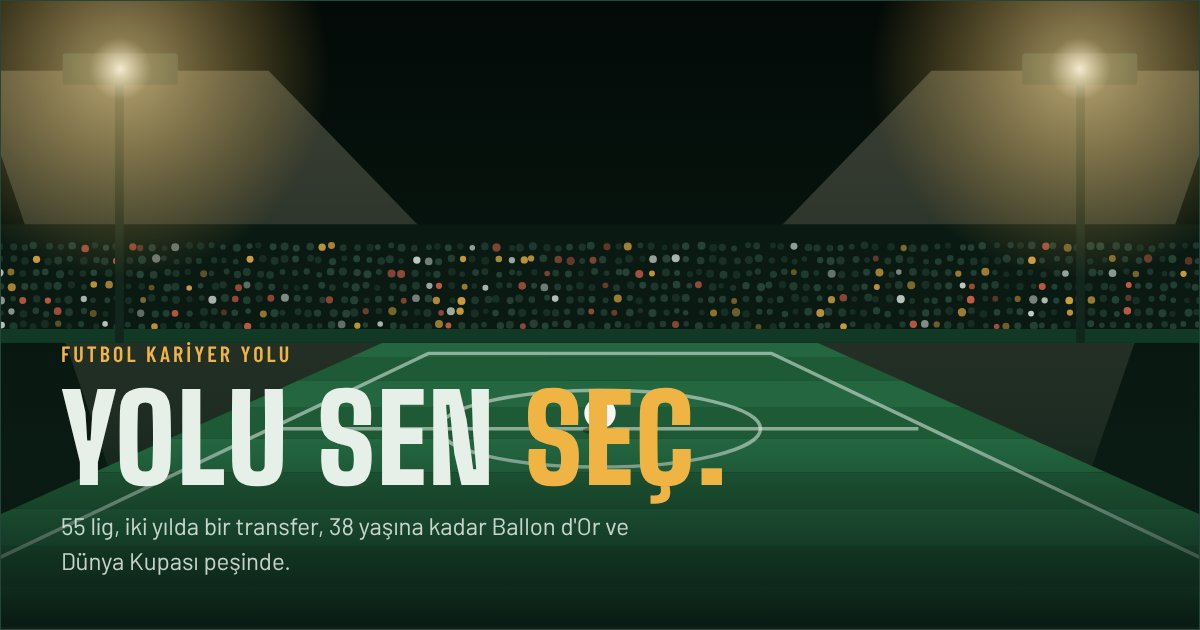
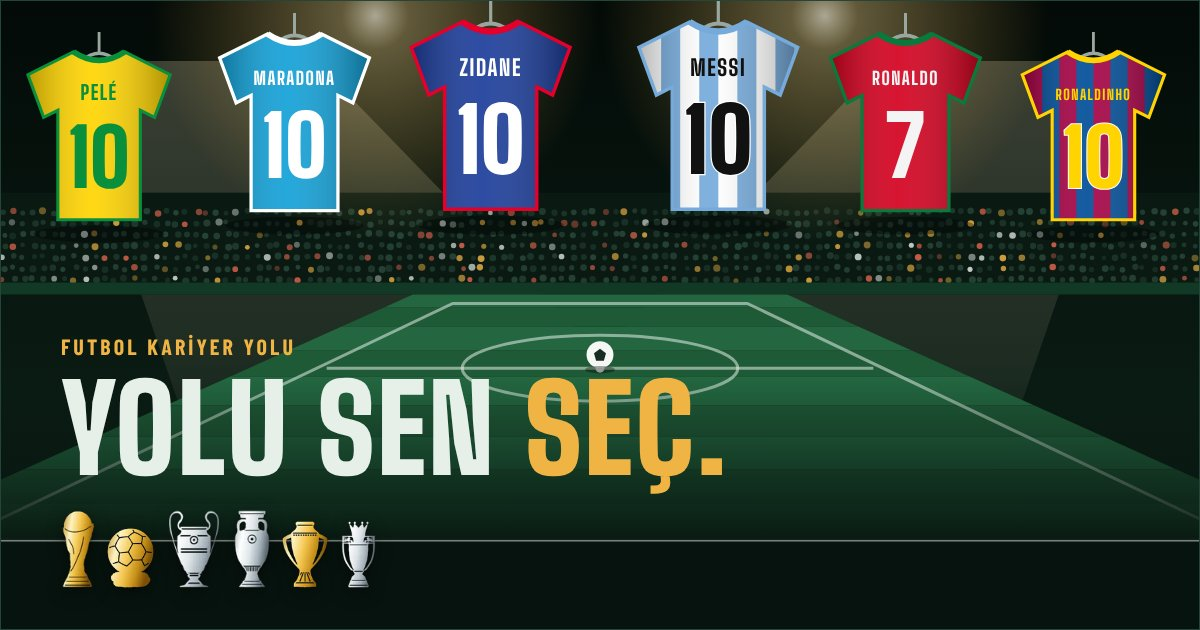
Kapakta efsaneler duvarı, kapak yazıları sadeleşti
Pelé, Maradona, Zidane, Messi, Ronaldo ve Ronaldinho ikonik formalarıyla
(isim ve numara) stadyum çiziminde; iki kapak yazısı kaldırıldı;
paylaşım görseli yenilendi.

Claude-Session: https://claude.ai/code/session_01CGWao6hr4YtgiQKQVhprTq

diff --git a/futbol/index.html b/futbol/index.html
@@ -684,6 +684,29 @@ function chipHtml(x,nat){const k=trophyKind(x);return `<span class="chip">${trop
 function journeyHtml(Q){const st=[];Q.seasons.forEach(s=>{const c=st[st.length-1];if(c&&c.club===s.club){c.to=s.endY;c.n++}else st.push({club:s.club,from:s.endY-1,to:s.endY,n:1})});
   return `<div class="journey">${st.map((c,i)=>`${i?'<span class="jarrow" aria-hidden="true">→</span>':''}<span class="jstop">${crest(c.club,32)}<small>${String(c.from).slice(2)}–${String(c.to).slice(2)}</small></span>`).join('')}</div>`}
 /* ================= ekranlar ================= */
+const LEGENDS=[
+  {n:'PELÉ',no:10,base:'#ffd400',stripe:null,txt:'#0a8f3c',trim:'#0a8f3c'},
+  {n:'MARADONA',no:10,base:'#12a0d7',stripe:null,txt:'#ffffff',trim:'#ffffff'},
+  {n:'ZIDANE',no:10,base:'#1b3c9a',stripe:null,txt:'#ffffff',trim:'#e4002b'},
+  {n:'MESSI',no:10,base:'#ffffff',stripe:'#75aadb',txt:'#111111',trim:'#75aadb'},
+  {n:'RONALDO',no:7,base:'#d4001f',stripe:null,txt:'#f4f4f4',trim:'#0a7a3c'},
+  {n:'RONALDINHO',no:10,base:'#a50044',stripe:'#004d98',txt:'#ffd400',trim:'#ffd400'}];
+function legendsSvg(){
+  const shirt='M32 0Q50 12 68 0L100 16 89 46 79 41V118H21V41L11 46 0 16Z';
+  const xs=[18,146,274,426,554,682],ys=[34,22,14,14,22,34],sc=[.95,1,1.06,1.06,1,.95];
+  return `<g class="legends">${LEGENDS.map((L,i)=>{const id='lg'+i;
+    const stripes=L.stripe?[14,38,62,86].map(x=>`<rect x="${x}" y="0" width="12" height="120" fill="${L.stripe}"/>`).join(''):'';
+    const fs=L.n.length>8?10:L.n.length>6?12:14;
+    return `<g transform="translate(${xs[i]} ${ys[i]}) scale(${sc[i]})">
+      <ellipse cx="50" cy="128" rx="46" ry="6" fill="#000" opacity=".35"/>
+      <line x1="50" y1="-14" x2="50" y2="2" stroke="#9aa7a0" stroke-width="2"/><path d="M38 6Q50-4 62 6" fill="none" stroke="#9aa7a0" stroke-width="2.4"/>
+      <clipPath id="${id}"><path d="${shirt}"/></clipPath>
+      <g clip-path="url(#${id})"><rect width="100" height="120" fill="${L.base}"/>${stripes}<rect width="100" height="120" fill="url(#cvShirtShade)"/></g>
+      <path d="${shirt}" fill="none" stroke="${L.trim}" stroke-width="2.2"/>
+      <path d="M32 0Q50 12 68 0" fill="none" stroke="${L.trim}" stroke-width="4"/>
+      <text x="50" y="34" text-anchor="middle" font-family="Big Shoulders Display,Impact,sans-serif" font-weight="800" font-size="${fs}" letter-spacing="1" fill="${L.txt}">${L.n}</text>
+      <text x="50" y="96" text-anchor="middle" font-family="Big Shoulders Display,Impact,sans-serif" font-weight="900" font-size="56" fill="${L.txt}" stroke="${L.stripe?'#ffffff':'none'}" stroke-width="${L.stripe?1.5:0}" paint-order="stroke">${L.no}</text>
+    </g>`}).join('')}</g>`}
 function coverSvg(){
   const W=800,H=360,hz=196,tw=250,bw=980;
   const xAt=(y,side)=>{const t=(y-hz)/(H-hz);const w=tw+(bw-tw)*t;return W/2+side*w/2};
@@ -699,6 +722,7 @@ function coverSvg(){
     <linearGradient id="cvSky" x1="0" y1="0" x2="0" y2="1"><stop offset="0" stop-color="#030a07"/><stop offset="1" stop-color="#0d2219"/></linearGradient>
     <radialGradient id="cvGlow"><stop offset="0" stop-color="#fff6dc" stop-opacity=".95"/><stop offset=".15" stop-color="#f6d58a" stop-opacity=".55"/><stop offset="1" stop-color="#f0b445" stop-opacity="0"/></radialGradient>
     <linearGradient id="cvBeam" x1="0" y1="0" x2="0" y2="1"><stop offset="0" stop-color="#fff2c8" stop-opacity=".22"/><stop offset="1" stop-color="#fff2c8" stop-opacity="0"/></linearGradient>
+    <linearGradient id="cvShirtShade" x1="0" y1="0" x2="1" y2="0"><stop offset="0" stop-color="#000" stop-opacity=".28"/><stop offset=".45" stop-color="#fff" stop-opacity=".08"/><stop offset="1" stop-color="#000" stop-opacity=".32"/></linearGradient>
     <linearGradient id="cvShade" x1="0" y1="0" x2="0" y2="1"><stop offset=".7" stop-color="#07130e" stop-opacity="0"/><stop offset="1" stop-color="#07130e" stop-opacity=".92"/></linearGradient>
   </defs>
   <rect width="${W}" height="${H}" fill="url(#cvSky)"/>
@@ -716,9 +740,8 @@ function coverSvg(){
   <circle cx="400" cy="${mid}" r="3" fill="#e6efe8"/>
   <g transform="translate(400 ${mid-9})"><circle r="9" fill="#f4f7f4"/><path d="M0-4 L4-1 L2.6 4 L-2.6 4 L-4-1Z" fill="#1b2a22"/></g>
   <ellipse cx="400" cy="${mid+1}" rx="10" ry="2.5" fill="#000" opacity=".35"/>
-  <rect x="122" y="40" width="5" height="${hz-40}" fill="#13261d"/><rect x="673" y="40" width="5" height="${hz-40}" fill="#13261d"/>
-  <rect x="92" y="30" width="66" height="18" rx="2" fill="#1d2f26"/><rect x="642" y="30" width="66" height="18" rx="2" fill="#1d2f26"/>
-  <circle cx="125" cy="39" r="120" fill="url(#cvGlow)"/><circle cx="675" cy="39" r="120" fill="url(#cvGlow)"/>
+      <circle cx="250" cy="10" r="150" fill="url(#cvGlow)" opacity=".7"/><circle cx="550" cy="10" r="150" fill="url(#cvGlow)" opacity=".7"/>
+  ${legendsSvg()}
   <rect width="${W}" height="${H}" fill="url(#cvShade)"/>
   </svg>`;
 }
@@ -800,9 +823,7 @@ function renderStart(){
   $('#app').innerHTML=`<section class="cover col">
     ${coverSvg()}
     <div class="cover-text">
-      <div class="eyebrow">Futbol kariyer simülasyonu · Sezon 2026/27</div>
       <h1>Yolu sen <em>seç.</em></h1>
-      <p>17 yaşında ilk imzanı at, iki yılda bir transfer kararı ver, 38 yaşında kupa dolabınla emekli ol.</p>
       ${shelf?`<div class="shelf" aria-label="Kazanabileceğin kupalardan bazıları">${shelf}</div>`:''}
     </div>
   </section>
@@ -1038,7 +1059,7 @@ if(!window.LOGOS_INLINE)fetch('logos.json').then(r=>r.ok?r.json():{}).then(d=>{L
 <script>
 /* Uygulama güncelleme: her açılışta ve uygulamaya dönüldüğünde yeni sürümü kontrol et */
 (function(){
-  var BUILD='20261126122445',busy=false;
+  var BUILD='20261126122742',busy=false;
   function reloadNow(){if(busy)return;busy=true;try{sessionStorage.setItem('fky.autocont','1')}catch(e){}location.reload()}
   function check(){
     fetch('version.json?t='+Date.now(),{cache:'no-store'}).then(function(r){return r.ok?r.json():null}).then(function(v){

diff --git a/futbol-kariyer.html b/futbol-kariyer.html
@@ -683,6 +683,29 @@ function chipHtml(x,nat){const k=trophyKind(x);return `<span class="chip">${trop
 function journeyHtml(Q){const st=[];Q.seasons.forEach(s=>{const c=st[st.length-1];if(c&&c.club===s.club){c.to=s.endY;c.n++}else st.push({club:s.club,from:s.endY-1,to:s.endY,n:1})});
   return `<div class="journey">${st.map((c,i)=>`${i?'<span class="jarrow" aria-hidden="true">→</span>':''}<span class="jstop">${crest(c.club,32)}<small>${String(c.from).slice(2)}–${String(c.to).slice(2)}</small></span>`).join('')}</div>`}
 /* ================= ekranlar ================= */
+const LEGENDS=[
+  {n:'PELÉ',no:10,base:'#ffd400',stripe:null,txt:'#0a8f3c',trim:'#0a8f3c'},
+  {n:'MARADONA',no:10,base:'#12a0d7',stripe:null,txt:'#ffffff',trim:'#ffffff'},
+  {n:'ZIDANE',no:10,base:'#1b3c9a',stripe:null,txt:'#ffffff',trim:'#e4002b'},
+  {n:'MESSI',no:10,base:'#ffffff',stripe:'#75aadb',txt:'#111111',trim:'#75aadb'},
+  {n:'RONALDO',no:7,base:'#d4001f',stripe:null,txt:'#f4f4f4',trim:'#0a7a3c'},
+  {n:'RONALDINHO',no:10,base:'#a50044',stripe:'#004d98',txt:'#ffd400',trim:'#ffd400'}];
+function legendsSvg(){
+  const shirt='M32 0Q50 12 68 0L100 16 89 46 79 41V118H21V41L11 46 0 16Z';
+  const xs=[18,146,274,426,554,682],ys=[34,22,14,14,22,34],sc=[.95,1,1.06,1.06,1,.95];
+  return `<g class="legends">${LEGENDS.map((L,i)=>{const id='lg'+i;
+    const stripes=L.stripe?[14,38,62,86].map(x=>`<rect x="${x}" y="0" width="12" height="120" fill="${L.stripe}"/>`).join(''):'';
+    const fs=L.n.length>8?10:L.n.length>6?12:14;
+    return `<g transform="translate(${xs[i]} ${ys[i]}) scale(${sc[i]})">
+      <ellipse cx="50" cy="128" rx="46" ry="6" fill="#000" opacity=".35"/>
+      <line x1="50" y1="-14" x2="50" y2="2" stroke="#9aa7a0" stroke-width="2"/><path d="M38 6Q50-4 62 6" fill="none" stroke="#9aa7a0" stroke-width="2.4"/>
+      <clipPath id="${id}"><path d="${shirt}"/></clipPath>
+      <g clip-path="url(#${id})"><rect width="100" height="120" fill="${L.base}"/>${stripes}<rect width="100" height="120" fill="url(#cvShirtShade)"/></g>
+      <path d="${shirt}" fill="none" stroke="${L.trim}" stroke-width="2.2"/>
+      <path d="M32 0Q50 12 68 0" fill="none" stroke="${L.trim}" stroke-width="4"/>
+      <text x="50" y="34" text-anchor="middle" font-family="Big Shoulders Display,Impact,sans-serif" font-weight="800" font-size="${fs}" letter-spacing="1" fill="${L.txt}">${L.n}</text>
+      <text x="50" y="96" text-anchor="middle" font-family="Big Shoulders Display,Impact,sans-serif" font-weight="900" font-size="56" fill="${L.txt}" stroke="${L.stripe?'#ffffff':'none'}" stroke-width="${L.stripe?1.5:0}" paint-order="stroke">${L.no}</text>
+    </g>`}).join('')}</g>`}
 function coverSvg(){
   const W=800,H=360,hz=196,tw=250,bw=980;
   const xAt=(y,side)=>{const t=(y-hz)/(H-hz);const w=tw+(bw-tw)*t;return W/2+side*w/2};
@@ -698,6 +721,7 @@ function coverSvg(){
     <linearGradient id="cvSky" x1="0" y1="0" x2="0" y2="1"><stop offset="0" stop-color="#030a07"/><stop offset="1" stop-color="#0d2219"/></linearGradient>
     <radialGradient id="cvGlow"><stop offset="0" stop-color="#fff6dc" stop-opacity=".95"/><stop offset=".15" stop-color="#f6d58a" stop-opacity=".55"/><stop offset="1" stop-color="#f0b445" stop-opacity="0"/></radialGradient>
     <linearGradient id="cvBeam" x1="0" y1="0" x2="0" y2="1"><stop offset="0" stop-color="#fff2c8" stop-opacity=".22"/><stop offset="1" stop-color="#fff2c8" stop-opacity="0"/></linearGradient>
+    <linearGradient id="cvShirtShade" x1="0" y1="0" x2="1" y2="0"><stop offset="0" stop-color="#000" stop-opacity=".28"/><stop offset=".45" stop-color="#fff" stop-opacity=".08"/><stop offset="1" stop-color="#000" stop-opacity=".32"/></linearGradient>
     <linearGradient id="cvShade" x1="0" y1="0" x2="0" y2="1"><stop offset=".7" stop-color="#07130e" stop-opacity="0"/><stop offset="1" stop-color="#07130e" stop-opacity=".92"/></linearGradient>
   </defs>
   <rect width="${W}" height="${H}" fill="url(#cvSky)"/>
@@ -715,9 +739,8 @@ function coverSvg(){
   <circle cx="400" cy="${mid}" r="3" fill="#e6efe8"/>
   <g transform="translate(400 ${mid-9})"><circle r="9" fill="#f4f7f4"/><path d="M0-4 L4-1 L2.6 4 L-2.6 4 L-4-1Z" fill="#1b2a22"/></g>
   <ellipse cx="400" cy="${mid+1}" rx="10" ry="2.5" fill="#000" opacity=".35"/>
-  <rect x="122" y="40" width="5" height="${hz-40}" fill="#13261d"/><rect x="673" y="40" width="5" height="${hz-40}" fill="#13261d"/>
-  <rect x="92" y="30" width="66" height="18" rx="2" fill="#1d2f26"/><rect x="642" y="30" width="66" height="18" rx="2" fill="#1d2f26"/>
-  <circle cx="125" cy="39" r="120" fill="url(#cvGlow)"/><circle cx="675" cy="39" r="120" fill="url(#cvGlow)"/>
+      <circle cx="250" cy="10" r="150" fill="url(#cvGlow)" opacity=".7"/><circle cx="550" cy="10" r="150" fill="url(#cvGlow)" opacity=".7"/>
+  ${legendsSvg()}
   <rect width="${W}" height="${H}" fill="url(#cvShade)"/>
   </svg>`;
 }
@@ -799,9 +822,7 @@ function renderStart(){
   $('#app').innerHTML=`<section class="cover col">
     ${coverSvg()}
     <div class="cover-text">
-      <div class="eyebrow">Futbol kariyer simülasyonu · Sezon 2026/27</div>
       <h1>Yolu sen <em>seç.</em></h1>
-      <p>17 yaşında ilk imzanı at, iki yılda bir transfer kararı ver, 38 yaşında kupa dolabınla emekli ol.</p>
       ${shelf?`<div class="shelf" aria-label="Kazanabileceğin kupalardan bazıları">${shelf}</div>`:''}
     </div>
   </section>

diff --git a/futbol/sw.js b/futbol/sw.js
@@ -1,5 +1,5 @@
-// Futbol Kariyer Yolu: çevrimdışı çalışma. Sürüm 20261126122445
-const CACHE='kariyer-yolu-20261126122445';
+// Futbol Kariyer Yolu: çevrimdışı çalışma. Sürüm 20261126122742
+const CACHE='kariyer-yolu-20261126122742';
 const FILES=['./','index.html','manifest.webmanifest','icon-192.png','icon-512.png','apple-touch-icon.png'];
 self.addEventListener('install',e=>{e.waitUntil(caches.open(CACHE).then(c=>c.addAll(FILES.map(f=>new Request(f,{cache:'reload'})))).then(()=>self.skipWaiting()))});
 self.addEventListener('activate',e=>{e.waitUntil(caches.keys().then(ks=>Promise.all(ks.filter(k=>k!==CACHE).map(k=>caches.delete(k)))).then(()=>self.clients.claim()))});
